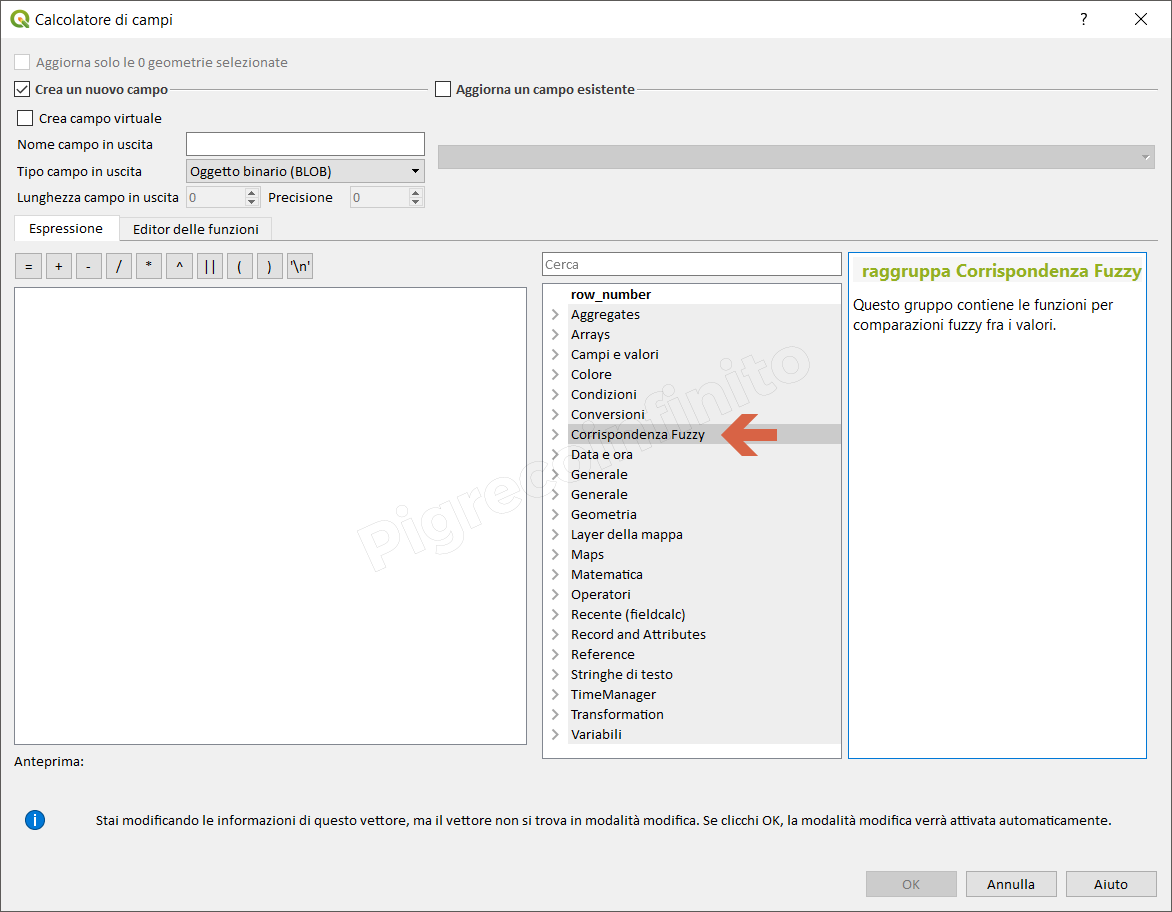
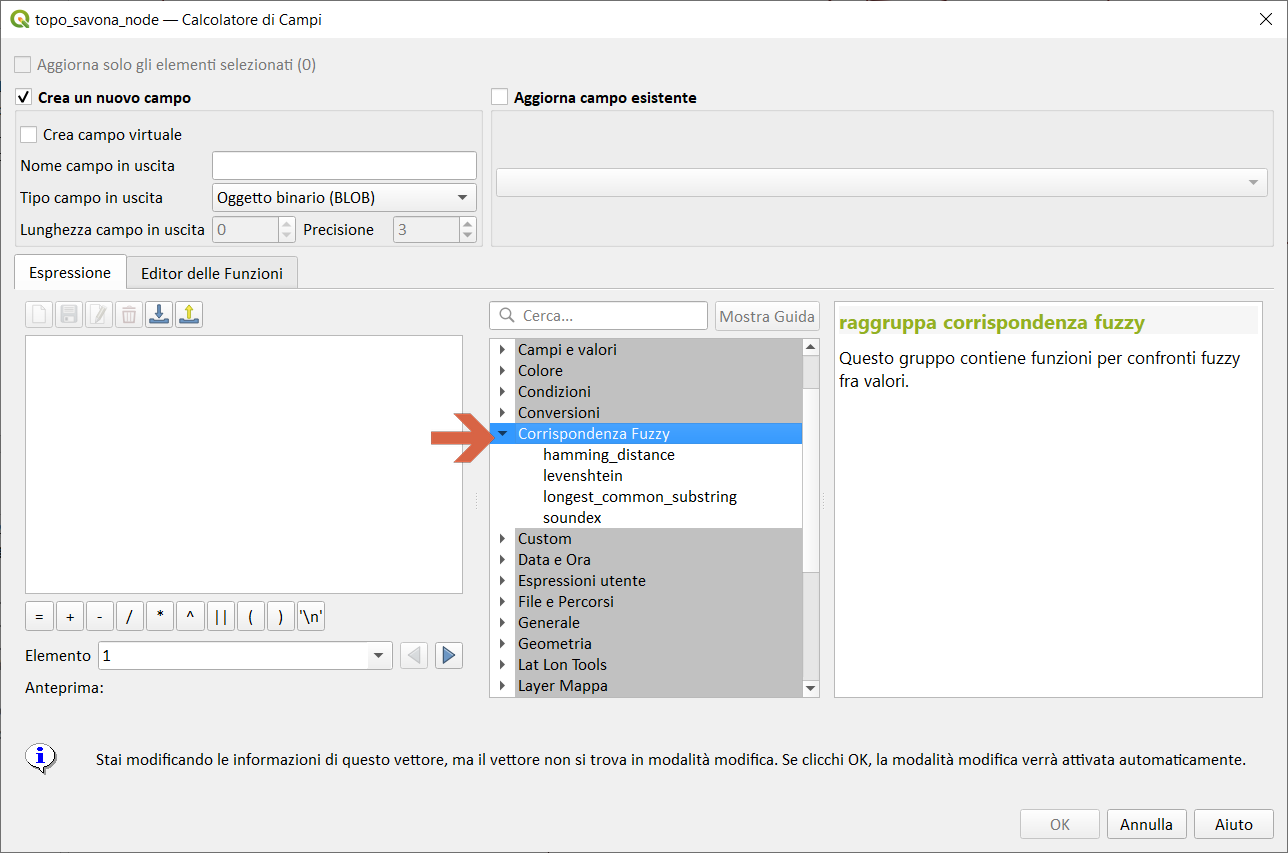
gruppo corrisponsenza fuzzy

diff --git a/docs/gr_funzioni/corrispondenza_fuzzy/corrispondenza_fuzzy_unico.md b/docs/gr_funzioni/corrispondenza_fuzzy/corrispondenza_fuzzy_unico.md
@@ -1,0 +1,106 @@
+# Gruppo corrispondenza fuzzy
+
+Questo gruppo contiene funzioni per [confronti fuzzy](https://it.wikipedia.org/wiki/Logica_fuzzy) fra valori.
+
+## hamming_distance
+
+Restituisce la distanza di Hamming tra due stringhe. Questa equivale al numero di caratteri nelle corrispondenti posizioni delle stringhe in ingresso dove i caratteri sono diversi. Le stringhe in ingresso devono avere la stessa lunghezza, e il confronto è sensibile alle lettere maiuscole.
+
+Sintassi:
+
+* hamming_distance(*<span style="color:red;">string1</span>, <span style="color:red;">string2</span>*)
+
+Argomenti:
+
+* _<span style="color:red;">string1</span>_ una stringa
+* _<span style="color:red;">string2</span>_ una stringa
+
+Esempi:
+
+```
+* hamming_distance('abc','xec') → 2
+* hamming_distance('abc','ABc') → 2
+* hamming_distance(upper('abc'),upper('ABC')) → 0
+```
+
+![](../../img/corrispondenza_fuzzy/hamming_distance1.png)
+
+---
+
+## levenshtein
+
+Restituisce la distanza di Levenshtein tra due stringhe. Questa equivale al minimo numero di modifiche di caratterere (inserimenti, cancellazioni o sostituzione) richieste per cambiare una stringa in un'altra.
+La distanza di Levenshtein è una misura della somiglianza tra due stringhe. Distanze più piccole corrispondono a stringhe più simili, e distanze più grandi corrispondono a stringhe più differenti. La distanza è sensibile alle lettere maiuscole.
+
+Sintassi:
+
+* levenshtein(*<span style="color:red;">string1</span>, <span style="color:red;">string2</span>*)
+
+Argomenti:
+
+* _<span style="color:red;">string1</span>_ una stringa
+* _<span style="color:red;">string2</span>_ una stringa
+
+Esempi:
+
+```
+* levenshtein('kittens','mitten') → 2
+* levenshtein('Kitten','kitten') → 1
+* levenshtein(upper('Kitten'),upper('kitten')) → 0
+```
+
+![](../../img/corrispondenza_fuzzy/levenshtein1.png)
+
+---
+
+## longest_common_substring
+
+Restituisce la sottostringa in comune più lunga tra due stringhe. Questa sottostringa è la stringa più lunga che è una sottostringa delle due stringhe in ingresso. Es: la sottostringa in comune più lunga di "ABABC" e "BABCA" è "ABC". La sottostringa è sensibile alle lettere maiuscole
+
+Sintassi:
+
+* longest_common_substring(*<span style="color:red;">string1</span>, <span style="color:red;">string2</span>*)
+
+Argomenti:
+
+* _<span style="color:red;">string1</span>_ una stringa
+* _<span style="color:red;">string2</span>_ una stringa
+
+
+Esempi:
+
+```
+* longest_common_substring('ABABC','BABCA') → 'ABC'
+* longest_common_substring('abcDeF','abcdef') → 'abc'
+* longest_common_substring(upper('abcDeF'),upper('abcdex')) → 'ABCDE'
+```
+
+![](../../img/corrispondenza_fuzzy/longest_common_substring1.png)
+
+---
+
+## soundex
+
+Restituisce la rappresentazione Soundex di una stringa. Soundex è un algoritmo di abbinamento fonetico, per cui le stringhe con suoni simili dovrebbero essere rappresentate dallo stesso codice Soundex.
+
+Sintassi:
+
+* soundex(*<span style="color:red;">string</span>*)
+
+Argomenti:
+
+* _<span style="color:red;">string</span>_ una stringa
+
+Esempi:
+
+```
+* soundex('robert') → 'R163'
+* soundex('rupert') → 'R163'
+* soundex('rubin') → 'R150'
+```
+
+![](../../img/corrispondenza_fuzzy/soundex1.png)
+
+secondo questo algoritmo *Sicilia bedda* e *Sicilia bella* hanno stesso suono :+1:
+
+![](../../img/corrispondenza_fuzzy/soundex2.png)

diff --git a/docs/gr_funzioni/conversioni/conversioni_unico.md b/docs/gr_funzioni/conversioni/conversioni_unico.md
@@ -74,7 +74,7 @@ Argomenti:
 
 Esempi:
 
-- md5('QGIS') → '57470aaa9e22adaefac7f5f342f1c6da'
+- `md5('QGIS') → '57470aaa9e22adaefac7f5f342f1c6da'`
 
 ![](../../img/conversioni/md51.png)
 
